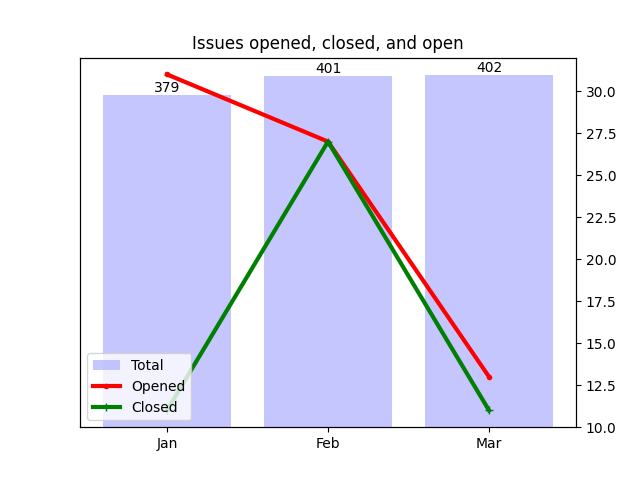
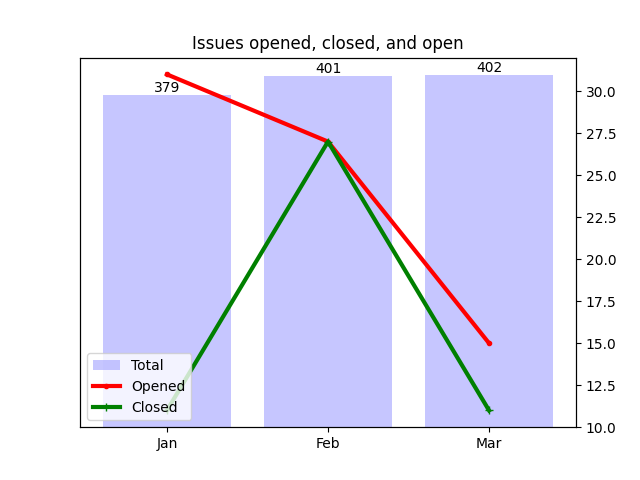
Apply automatic changes

Changed region(s): [[0.5312, 0.3125, 0.7812, 0.75], [0.75, 0.75, 0.7812, 0.8125]]

diff --git a/docs/analytics.html b/docs/analytics.html
@@ -79,7 +79,7 @@ td .material-icons { display:inline-flex; vertical-align: top; font-size:1.1rem;
 						</tr>
 						<tr>
 							<td>Mar</td>
-							<td>13</td>
+							<td>15</td>
 							<td>11</td>
 						</tr>
 					</table>
@@ -112,7 +112,7 @@ td .material-icons { display:inline-flex; vertical-align: top; font-size:1.1rem;
 							<td>
 								<a href="http://github.com/notofonts/math/issues">math</a>
 							</td>
-							<td>16</td>
+							<td>17</td>
 						</tr>
 						<tr>
 							<td>
@@ -142,7 +142,7 @@ td .material-icons { display:inline-flex; vertical-align: top; font-size:1.1rem;
 							<td>
 								<a href="http://github.com/notofonts/arabic/issues">arabic</a>
 							</td>
-							<td>7</td>
+							<td>8</td>
 						</tr>
 						<tr>
 							<td>
@@ -207,7 +207,13 @@ td .material-icons { display:inline-flex; vertical-align: top; font-size:1.1rem;
 				<tr>
 					<td>7</td>
 					<td>
-						<a href="http://github.com/notofonts/arabic/issues">arabic</a>,  						<a href="http://github.com/notofonts/devanagari/issues">devanagari</a>,  						<a href="http://github.com/notofonts/egyptian-hieroglyphs/issues">egyptian-hieroglyphs</a>,  						<a href="http://github.com/notofonts/kaithi/issues">kaithi</a>,  						<a href="http://github.com/notofonts/kannada/issues">kannada</a>,  						<a href="http://github.com/notofonts/malayalam/issues">malayalam</a> 
+						<a href="http://github.com/notofonts/devanagari/issues">devanagari</a>,  						<a href="http://github.com/notofonts/egyptian-hieroglyphs/issues">egyptian-hieroglyphs</a>,  						<a href="http://github.com/notofonts/kaithi/issues">kaithi</a>,  						<a href="http://github.com/notofonts/kannada/issues">kannada</a>,  						<a href="http://github.com/notofonts/malayalam/issues">malayalam</a> 
+					</td>
+				</tr>
+				<tr>
+					<td>8</td>
+					<td>
+						<a href="http://github.com/notofonts/arabic/issues">arabic</a> 
 					</td>
 				</tr>
 				<tr>
@@ -240,7 +246,7 @@ td .material-icons { display:inline-flex; vertical-align: top; font-size:1.1rem;
 
 									<a href="http://github.com/notofonts/hebrew/issues">hebrew</a>: 9, 
 
-									<a href="http://github.com/notofonts/arabic/issues">arabic</a>: 7, 
+									<a href="http://github.com/notofonts/arabic/issues">arabic</a>: 8, 
 
 									<a href="http://github.com/notofonts/devanagari/issues">devanagari</a>: 7, 
 
@@ -280,7 +286,7 @@ td .material-icons { display:inline-flex; vertical-align: top; font-size:1.1rem;
 						<tr>
 							<td>3</td>
 							<td>
-									<a href="http://github.com/notofonts/math/issues">math</a>: 16, 
+									<a href="http://github.com/notofonts/math/issues">math</a>: 17, 
 
 									<a href="http://github.com/notofonts/symbols/issues">symbols</a>: 12, 
 
